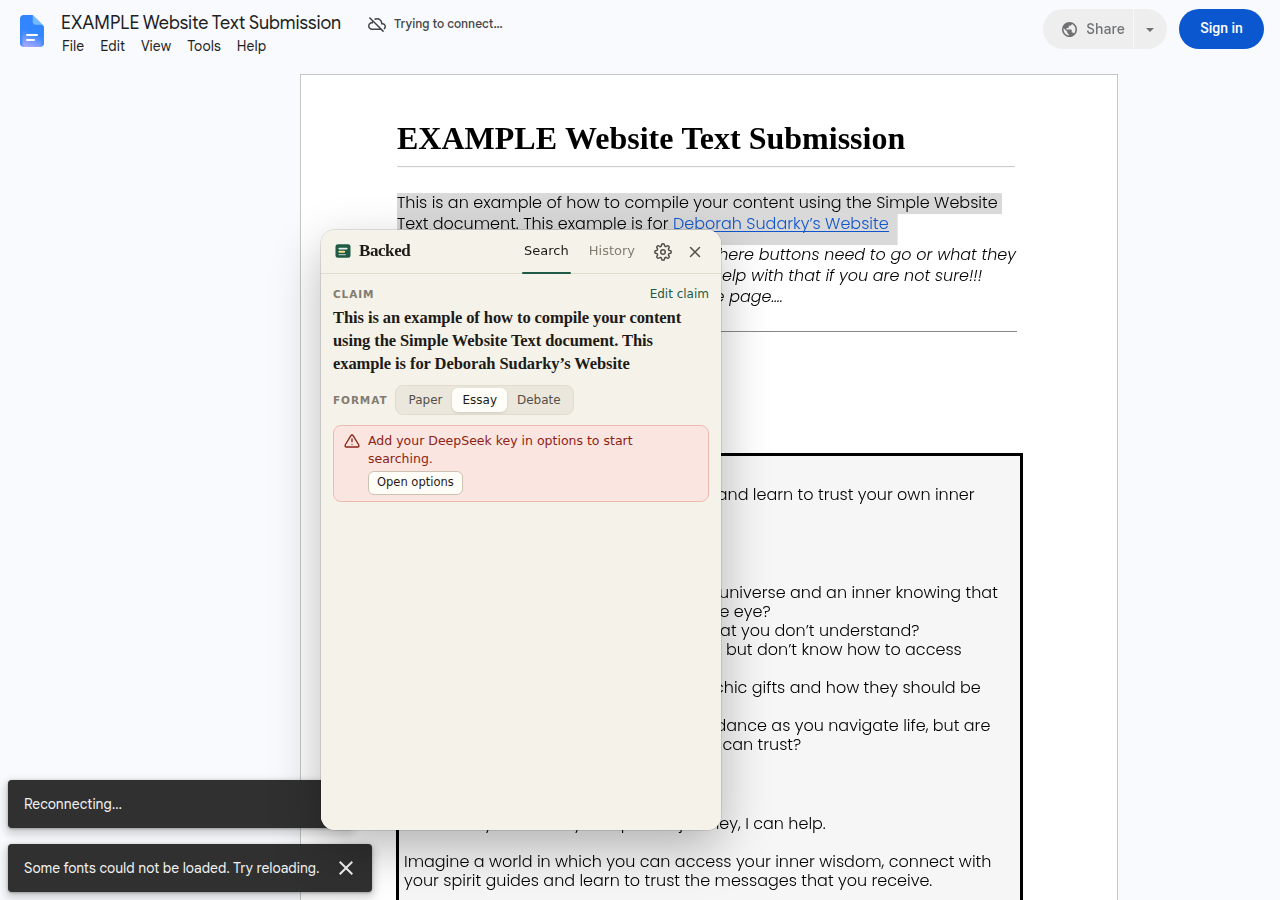
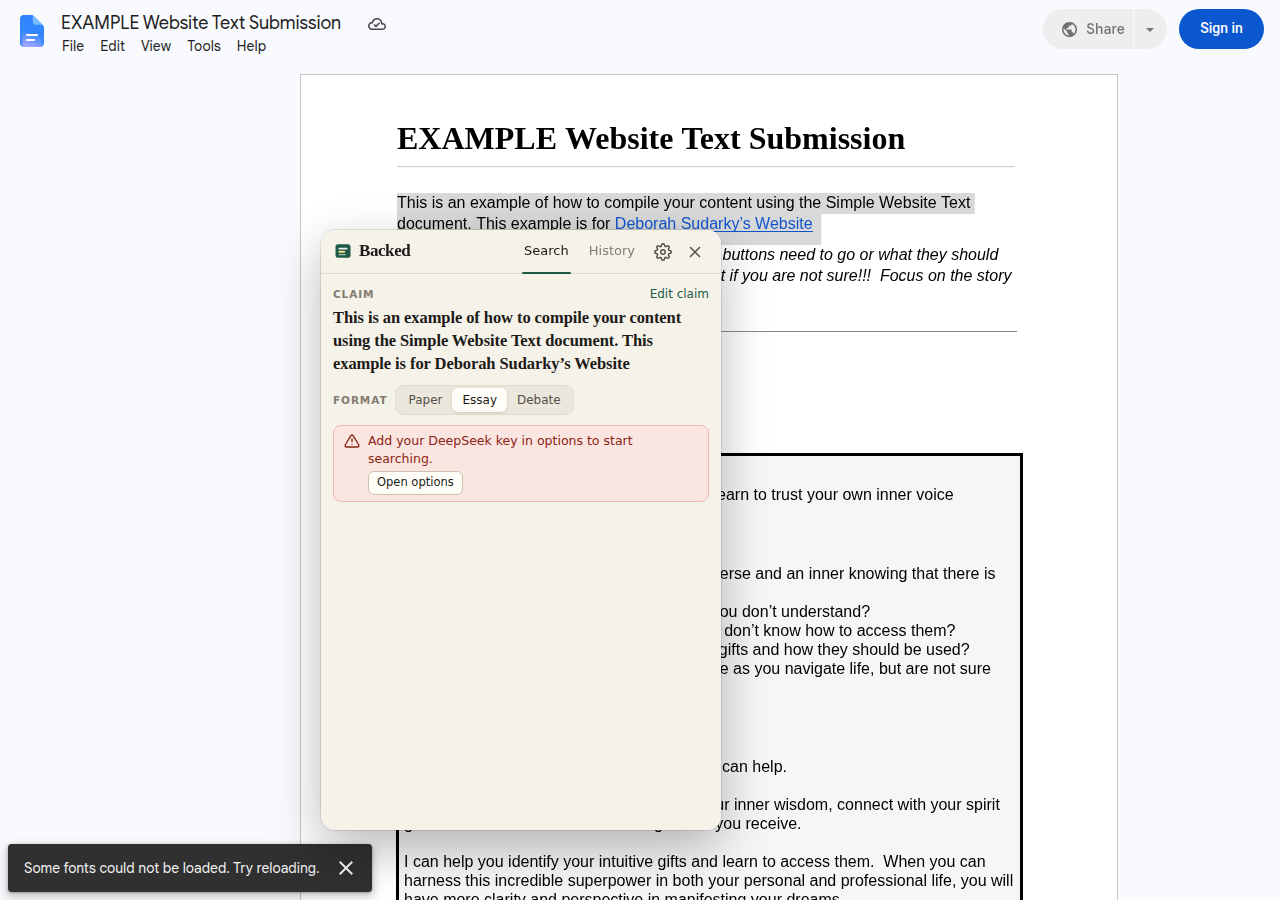
Docs edit mode: detect highlights from the gesture, copy the text on click
In editable Google Docs the hidden selection copy is empty (a single
space), so the button never appeared. Now:
- Recognise a selection from the gesture in the document area: a drag,
  a triple-click, Shift+click or Shift+arrow keys (pointer events,
  which Docs edit mode doesn't cancel).
- On click, read the text: Docs' hidden copy if present, else ask Docs
  to copy the selection (execCommand('copy') in its text frame, as
  Cmd/Ctrl+C would; verified on a live Doc), else what the user copies
  after the button appeared. If none works, the button says to press
  Cmd/Ctrl+C and click again; older clipboard text is never used.
- Pressing Cmd/Ctrl+C no longer hides the button.
- Version 0.2.1.

Claude-Session: https://claude.ai/code/session_01REKGazpN4nHgJsq7f1CCEn

diff --git a/src/content/main.ts b/src/content/main.ts
@@ -10,6 +10,17 @@ import { FRAME_CLOSE, type ContentRequest, type ContentToBackground, type FindSo
 import { SELECTION_BUTTON_KEY } from '../shared/storageKeys';
 import { grabDocsSelection } from './docs';
 
+const IS_MAC = typeof navigator !== 'undefined' && /Mac|iPhone|iPad/i.test(navigator.platform || navigator.userAgent);
+
+/**
+ * Did this press/release look like a text selection? Docs in edit mode doesn't expose the
+ * highlighted text, so we infer it from the gesture: a drag across the text, a triple-click
+ * (paragraph), or a Shift+click that extends the selection.
+ */
+export function isSelectionGesture(g: { dx: number; dy: number; clicks: number; shift: boolean }): boolean {
+  return Math.hypot(g.dx, g.dy) > 8 || g.clicks >= 3 || g.shift;
+}
+
 const MIN_CHARS = 12;
 const MIN_WORDS = 3;
 const MAX_CHARS = 4000;
@@ -147,6 +158,11 @@ export function installBacked(): BackedUi {
   let buttonEnabled = true;
   let buttonEl: HTMLButtonElement | null = null;
   let buttonClaim = '';
+  /** How the button's text was found: read directly, or (Docs edit mode) to be copied on click. */
+  let buttonMethod: PageSelection['method'] = 'selection';
+  let buttonFromMirror = false;
+  /** Last text the user copied inside Google Docs (Cmd/Ctrl+C), as a fallback source. */
+  let lastDocsCopy: { text: string; at: number } | null = null;
   let buttonAnchor: Rect | null = null;
   let frameWrap: HTMLDivElement | null = null;
   let frameEl: HTMLIFrameElement | null = null;
@@ -200,6 +216,25 @@ export function installBacked(): BackedUi {
     buttonEl = null;
   }
 
+  function setButtonLabel(btn: HTMLButtonElement, label: string) {
+    const textNode = Array.from(btn.childNodes).find((n) => n.nodeType === 3);
+    if (textNode) textNode.nodeValue = label;
+  }
+
+  /**
+   * The highlighted Docs text right now: Docs' hidden copy, a copy Docs makes for us, or — only if
+   * the user copied *after* `since` — what they copied themselves. Never older clipboard content.
+   */
+  function readDocsSelectionNow(since: number): string {
+    const mirror = docsSelectionText();
+    if (isClaimLike(mirror)) return mirror.trim();
+    const grabbed = grabDocsSelection().text.trim();
+    if (grabbed) return grabbed;
+    if (lastDocsCopy && lastDocsCopy.at >= since) return lastDocsCopy.text;
+    return '';
+  }
+  let buttonShownAt = 0;
+
   /** Window scroll plus the Docs editor's own scroll container, as one number. */
   function scrollPositions(): number {
     const editor = IS_GOOGLE_DOCS ? document.querySelector('.kix-appview-editor') : null;
@@ -247,7 +282,15 @@ export function installBacked(): BackedUi {
     btn.addEventListener('click', (e) => {
       e.preventDefault();
       e.stopPropagation();
-      const claim = buttonClaim;
+      let claim = buttonClaim;
+      if (!claim && buttonMethod === 'docs') {
+        // Docs edit mode: get the highlighted text now, the way Cmd/Ctrl+C would.
+        claim = readDocsSelectionNow(buttonShownAt);
+        if (!isClaimLike(claim)) {
+          setButtonLabel(btn, claim ? 'Select a full sentence' : `Press ${IS_MAC ? '⌘C' : 'Ctrl+C'}, then click`);
+          return;
+        }
+      }
       const anchor = buttonAnchor;
       hideButton();
       void findSource(claim, anchor);
@@ -256,6 +299,8 @@ export function installBacked(): BackedUi {
     buttonEl = btn;
     buttonScroll = scrollPositions();
     buttonClaim = sel.text;
+    buttonMethod = sel.method;
+    buttonShownAt = Date.now();
     buttonAnchor = sel.box ?? sel.end;
     requestAnimationFrame(() => {
       btn.style.opacity = '1';
@@ -318,10 +363,10 @@ export function installBacked(): BackedUi {
 
   /* ---------------------------- page events ---------------------------- */
 
-  const maybeShowButton = (mouse: { x: number; y: number } | null) => {
+  const maybeShowButton = (mouse: { x: number; y: number } | null, gesture = false) => {
     if (retired || orphaned() || !buttonEnabled || frameEl) return;
     if (IS_GOOGLE_DOCS) {
-      checkDocsSelection(mouse, 0);
+      checkDocsSelection(mouse, 0, gesture);
       return;
     }
     const sel = readSelection(isOurs);
@@ -336,21 +381,39 @@ export function installBacked(): BackedUi {
   // Docs fills its hidden selection a moment after mouseup/keyup: look a few times.
   const DOCS_RETRIES = [40, 120, 300, 700];
   let docsCheck = 0;
-  function checkDocsSelection(mouse: { x: number; y: number } | null, attempt: number) {
+  function docsAnchor(mouse: { x: number; y: number } | null): { point: { x: number; y: number }; anchor: Rect } {
+    const caret = docsCaretRect();
+    const point = mouse ?? (caret ? { x: caret.right, y: caret.top } : { x: window.innerWidth / 2, y: 140 });
+    return { point, anchor: { top: point.y - 10, bottom: point.y + 10, left: point.x - 200, right: point.x } };
+  }
+
+  function checkDocsSelection(mouse: { x: number; y: number } | null, attempt: number, gesture: boolean) {
     const id = ++docsCheck;
     const run = (i: number) => {
-      if (id !== docsCheck) return;
+      if (id !== docsCheck || frameEl) return;
       const text = docsSelectionText();
       if (isClaimLike(text)) {
-        const caret = docsCaretRect();
-        const point = mouse ?? (caret ? { x: caret.right, y: caret.top } : null);
-        const anchor: Rect | null = point ? { top: point.y - 10, bottom: point.y + 10, left: point.x - 200, right: point.x } : null;
+        // View mode (and some edit modes): Docs hands over the exact text.
+        if (buttonEl && buttonMethod === 'docs') {
+          buttonClaim = text;
+          buttonFromMirror = true;
+          return;
+        }
+        const { point, anchor } = docsAnchor(mouse);
         lastAnchor = anchor;
         showButton({ text, end: null, box: anchor, method: 'docs' }, point);
+        buttonFromMirror = true;
         return;
       }
+      if (gesture && !buttonEl) {
+        // Edit mode: the text isn't readable yet. Show the button now; read the text on click.
+        const { point, anchor } = docsAnchor(mouse);
+        lastAnchor = anchor;
+        showButton({ text: '', end: null, box: anchor, method: 'docs' }, point);
+        buttonFromMirror = false;
+      }
       if (i + 1 < DOCS_RETRIES.length) setTimeout(() => run(i + 1), DOCS_RETRIES[i + 1]! - DOCS_RETRIES[i]!);
-      else hideButton();
+      else if (!gesture) hideButton();
     };
     setTimeout(() => run(attempt), DOCS_RETRIES[attempt]);
   }
@@ -363,15 +426,21 @@ export function installBacked(): BackedUi {
     if (!d || d === docsFrameDoc) return;
     docsFrameDoc = d;
     d.addEventListener('keyup', (e) => {
-      if (e.shiftKey || e.key === 'Shift' || ((e.ctrlKey || e.metaKey) && e.key.toLowerCase() === 'a')) maybeShowButton(null);
+      const arrows = /^(Arrow|Home|End|Page)/.test(e.key);
+      if ((e.shiftKey && arrows) || ((e.ctrlKey || e.metaKey) && e.key.toLowerCase() === 'a')) maybeShowButton(null, true);
     });
     d.addEventListener('keydown', (e) => {
       if (e.key === 'Escape') {
         if (buttonEl) hideButton();
         else if (frameEl) closePopup();
-      } else if (!e.shiftKey && e.key !== 'Shift') {
+      } else if (!e.shiftKey && !e.metaKey && !e.ctrlKey && !['Shift', 'Meta', 'Control', 'Alt'].includes(e.key)) {
         hideButton(); // typing or moving the caret clears the selection
       }
+    });
+    // Remember what the user copies in Docs (Cmd/Ctrl+C): a fallback when the text can't be read.
+    d.defaultView?.addEventListener('copy', (e) => {
+      const t = e.clipboardData?.getData('text/plain')?.trim();
+      if (t) lastDocsCopy = { text: t, at: Date.now() };
     });
   }
   // Safety net for Docs: watch the hidden selection itself, so the button shows up however the
@@ -383,10 +452,15 @@ export function installBacked(): BackedUi {
     if (text === polled) return;
     polled = text;
     if (!isClaimLike(text)) {
-      if (buttonEl && !text.trim()) hideButton();
+      if (buttonEl && buttonFromMirror && !text.trim()) hideButton();
       return;
     }
     if (buttonEl && buttonClaim === text) return;
+    if (buttonEl && buttonMethod === 'docs') {
+      buttonClaim = text;
+      buttonFromMirror = true;
+      return;
+    }
     if (orphaned()) return;
     const recent = lastPointer && Date.now() - lastPointer.at < 3000 ? lastPointer : null;
     const caret = docsCaretRect();
@@ -395,6 +469,7 @@ export function installBacked(): BackedUi {
     const anchor: Rect | null = point ? { top: point.y - 10, bottom: point.y + 10, left: point.x - 200, right: point.x } : null;
     lastAnchor = anchor;
     showButton({ text, end: null, box: anchor, method: 'docs' }, point);
+    buttonFromMirror = true;
   }
   if (IS_GOOGLE_DOCS) {
     watchDocsFrame();
@@ -415,7 +490,9 @@ export function installBacked(): BackedUi {
     watchDocsFrame();
     lastPointer = { x: e.clientX, y: e.clientY, at: now };
     const mouse = { x: e.clientX, y: e.clientY };
-    setTimeout(() => maybeShowButton(mouse), 0);
+    const gesture =
+      IS_GOOGLE_DOCS && !!press?.inText && isSelectionGesture({ dx: e.clientX - press.x, dy: e.clientY - press.y, clicks: clicks.n, shift: e.shiftKey });
+    setTimeout(() => maybeShowButton(mouse, gesture), 0);
   };
   window.addEventListener('pointerup', onRelease, true);
   window.addEventListener('mouseup', onRelease, true);
@@ -426,8 +503,20 @@ export function installBacked(): BackedUi {
     },
     true,
   );
+  // Track presses in the Docs text area to recognise drags, triple-clicks and Shift+clicks.
+  let press: { x: number; y: number; inText: boolean } | null = null;
+  let clicks = { n: 0, at: 0, x: -1, y: -1, type: '' };
   const onPress = (e: Event) => {
-    if (!eventIsOurs(e)) hideButton();
+    if (eventIsOurs(e)) return;
+    hideButton();
+    if (!IS_GOOGLE_DOCS || !(e instanceof MouseEvent) || e.button !== 0) return;
+    const now = Date.now();
+    // pointerdown + mousedown for the same press count once.
+    if (e.type !== clicks.type && now - clicks.at < 80 && e.clientX === clicks.x && e.clientY === clicks.y) return;
+    const near = Math.hypot(e.clientX - clicks.x, e.clientY - clicks.y) < 6 && now - clicks.at < 500;
+    clicks = { n: near ? clicks.n + 1 : 1, at: now, x: e.clientX, y: e.clientY, type: e.type };
+    const target = e.target instanceof Element ? e.target : null;
+    press = { x: e.clientX, y: e.clientY, inText: !!target?.closest('.kix-appview-editor') };
   };
   window.addEventListener('pointerdown', onPress, true);
   window.addEventListener('mousedown', onPress, true);
@@ -480,8 +569,8 @@ export function installBacked(): BackedUi {
       case 'GET_SELECTION': {
         let res: SelectionResponse;
         if (IS_GOOGLE_DOCS) {
-          const d = grabDocsSelection();
-          res = { text: d.text, method: d.method, isGoogleDocs: true, panelOpen: !!frameEl };
+          const text = readDocsSelectionNow(Date.now() - 15_000);
+          res = { text, method: text ? 'docs' : 'none', isGoogleDocs: true, panelOpen: !!frameEl };
         } else {
           const sel = readSelection(isOurs);
           if (sel) lastAnchor = sel.box ?? sel.end;

diff --git a/tests/content/docs-page.test.ts b/tests/content/docs-page.test.ts
@@ -6,13 +6,15 @@ import { beforeAll, describe, expect, it, vi } from 'vitest';
 import type { BackedUi } from '../../src/content/main';
 
 let ui: BackedUi;
+let sendMessage: ReturnType<typeof vi.fn>;
+let mod: typeof import('../../src/content/main');
 
 beforeAll(async () => {
   (globalThis as unknown as { chrome: unknown }).chrome = {
     runtime: {
       id: 'ext-id',
       getURL: (p: string) => `chrome-extension://ext-id/${p}`,
-      sendMessage: vi.fn(async () => ({ token: 'f'.repeat(32) })),
+      sendMessage: (sendMessage = vi.fn(async (_m: unknown) => ({ token: 'f'.repeat(32) }))),
       onMessage: { addListener: () => undefined },
     },
     storage: { local: { get: async () => ({}) }, onChanged: { addListener: () => undefined } },
@@ -20,7 +22,7 @@ beforeAll(async () => {
   if (!('requestAnimationFrame' in window)) (window as unknown as { requestAnimationFrame: (f: () => void) => number }).requestAnimationFrame = (f) => setTimeout(f, 0) as unknown as number;
   document.hasFocus = () => true;
   document.body.innerHTML = '<div class="kix-appview-editor"><div class="kix-cursor-caret"></div></div><iframe class="docs-texteventtarget-iframe"></iframe>';
-  const mod = await import('../../src/content/main');
+  mod = await import('../../src/content/main');
   ui = mod.backedUi()!;
 });
 
@@ -47,5 +49,78 @@ describe('Google Docs page', () => {
     docsSelect('');
     await new Promise((r) => setTimeout(r, 900));
     expect(ui.button()).toBeNull();
+  });
+});
+
+/** Edit mode: Docs keeps only a space in its hidden selection, as seen on a real editable Doc. */
+function editModeHidden(): Document {
+  docsSelect(' ');
+  return document.querySelector('iframe')!.contentDocument!;
+}
+
+function drag(fromX: number, toX: number): void {
+  const target = document.querySelector('.kix-appview-editor')!;
+  target.dispatchEvent(new MouseEvent('pointerdown', { bubbles: true, clientX: fromX, clientY: 300, button: 0 }));
+  target.dispatchEvent(new MouseEvent('pointerup', { bubbles: true, clientX: toX, clientY: 302, button: 0 }));
+}
+
+describe('Google Docs edit mode (text not exposed)', () => {
+  it('recognises selection gestures', () => {
+    expect(mod.isSelectionGesture({ dx: 120, dy: 0, clicks: 1, shift: false })).toBe(true); // drag
+    expect(mod.isSelectionGesture({ dx: 0, dy: 0, clicks: 3, shift: false })).toBe(true); // triple-click
+    expect(mod.isSelectionGesture({ dx: 0, dy: 0, clicks: 1, shift: true })).toBe(true); // shift+click
+    expect(mod.isSelectionGesture({ dx: 2, dy: 1, clicks: 1, shift: false })).toBe(false); // plain click
+    expect(mod.isSelectionGesture({ dx: 0, dy: 0, clicks: 2, shift: false })).toBe(false); // double-click = one word
+  });
+
+  it('a drag across the text shows the button; clicking it copies the selection out of Docs', async () => {
+    const fdoc = editModeHidden();
+    await new Promise((r) => setTimeout(r, 450)); // let the poller see the blank selection
+    ui.hideButton();
+    fdoc.execCommand = vi.fn((cmd: string) => {
+      if (cmd !== 'copy') return false;
+      const e = new Event('copy', { bubbles: true });
+      Object.defineProperty(e, 'clipboardData', { value: { getData: () => 'Congress can prevent an economic disaster by creating government regulations.' } });
+      fdoc.dispatchEvent(e);
+      return true;
+    });
+    drag(200, 600);
+    await new Promise((r) => setTimeout(r, 120));
+    const btn = ui.button();
+    expect(btn?.textContent).toBe('Find a source');
+    btn!.click();
+    await new Promise((r) => setTimeout(r, 10));
+    expect(sendMessage).toHaveBeenCalledWith({ type: 'FIND_SOURCE', claim: 'Congress can prevent an economic disaster by creating government regulations.' });
+    expect(ui.frame()).not.toBeNull();
+    ui.closePopup();
+  });
+
+  it('a plain click does not show the button', async () => {
+    editModeHidden();
+    ui.hideButton();
+    drag(300, 302);
+    await new Promise((r) => setTimeout(r, 120));
+    expect(ui.button()).toBeNull();
+  });
+
+  it('if Docs will not copy, the button asks for Cmd/Ctrl+C and then uses what the user copied', async () => {
+    const fdoc = editModeHidden();
+    ui.hideButton();
+    sendMessage.mockClear();
+    fdoc.execCommand = vi.fn(() => false);
+    drag(200, 650);
+    await new Promise((r) => setTimeout(r, 120));
+    const btn = ui.button()!;
+    btn.click();
+    expect(btn.textContent).toMatch(/(⌘C|Ctrl\+C), then click/);
+    expect(sendMessage).not.toHaveBeenCalled();
+    // The user presses Cmd/Ctrl+C: Docs fills the copy event, which Backed remembers.
+    const e = new Event('copy', { bubbles: true });
+    Object.defineProperty(e, 'clipboardData', { value: { getData: () => 'This would also stop inflating economic bubble and help mitigate the fallout.' } });
+    fdoc.dispatchEvent(e);
+    btn.click();
+    await new Promise((r) => setTimeout(r, 10));
+    expect(sendMessage).toHaveBeenCalledWith({ type: 'FIND_SOURCE', claim: 'This would also stop inflating economic bubble and help mitigate the fallout.' });
+    ui.closePopup();
   });
 });
